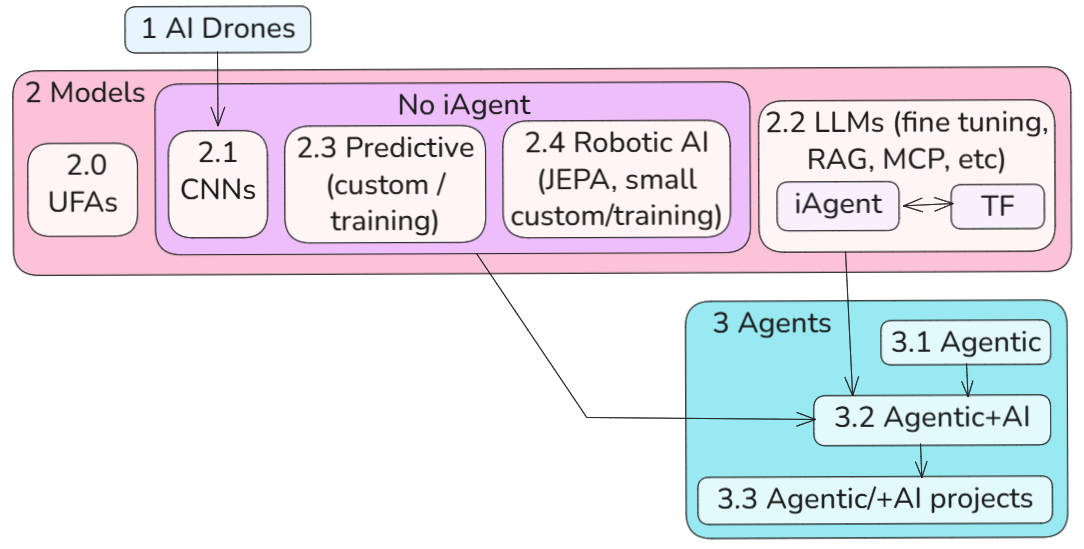
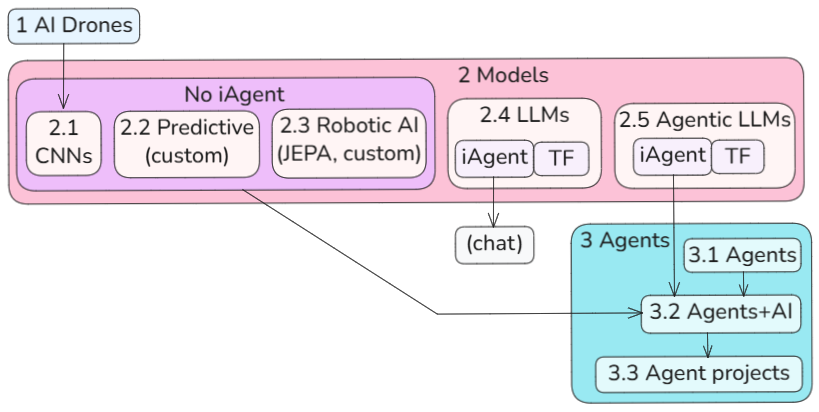
major refacctor3

diff --git a/_includes/header.html b/_includes/header.html
@@ -21,7 +21,7 @@
             {%- assign my_page = site.pages | where: "path", path | first -%}
             {%- if my_page.title -%}
             <a class="page-link" href="{{ my_page.url | relative_url }}">
-              {%- if my_page.path == "1-ai-drones.markdown" or my_page.path == "2-llms.markdown" or my_page.path == "2b-UFA.markdown" or my_page.path == "4-agentic-ai.markdown" or my_page.path == "5-ai-dev-tools.markdown" or my_page.path == "6-ai-projects.markdown" or my_page.path == "91-cnn.markdown" or my_page.path == "2_models.markdown" or my_page.path == "3_agents.markdown" or my_page.path == "0b-resources.markdown" -%}
+              {%- if my_page.path == "1-ai-drones.markdown" or my_page.path == "2.4-LLMs.markdown" or my_page.path == "2.4.2-ufas.markdown" or my_page.path == "4-agentic-ai.markdown" or my_page.path == "5-ai-dev-tools.markdown" or my_page.path == "6-ai-projects.markdown" or my_page.path == "2.1-cnns.markdown" or my_page.path == "2_models.markdown" or my_page.path == "3_agents.markdown" or my_page.path == "4_resources.markdown" -%}
                 <strong>{{ my_page.title | escape }}</strong>
               {%- else -%}
                 {{ my_page.title | escape }}

diff --git a/_includes/head.html b/_includes/head.html
@@ -4,6 +4,7 @@
   <meta name="viewport" content="width=device-width, initial-scale=1">
   {%- seo -%}
   <link rel="stylesheet" href="{{ "/assets/main.css" | relative_url }}">
+  <link rel="icon" href="data:,">
   {%- feed_meta -%}
   
   {%- if jekyll.environment == 'production' and site.google_analytics -%}

diff --git a/index.md b/index.md
@@ -5,22 +5,22 @@ title: Home
 
 <br>
 
-**This site covers AI models and agents** (with extensive demos and my own take on core concepts). 
+**This site covers primarily drones, models (LLMs), and agents** (with extensive demos and my own take on core concepts). 
 
 <br>
 
-*Site diagram [(details on timeline page)](/history/)* <br>
-<img src="/assets/zai_evolution3.png" alt="smol" width="60%"> 
+*Site diagram [(details on timeline page)](/0-timeline/)* <br>
+<img src="/assets/zai_evolution3.png" alt="smol" width="55%"> 
 
 <br>
 
-**The following are all of the top-level pages** *(see also the [Wiki](https://github.com/terrytaylorbonn/auxdrone/wiki))*.  
+**The following are the top-level pages** *(see also the [Wiki](https://github.com/terrytaylorbonn/auxdrone/wiki))*.  
 
-- [Timeline](/the-future/). ZiptieAI start, present, and future.
-- **[1 AI Drones](/aidrones/)**. CNNs (object recognition) on Pixhawk drones. 
-- **[2 Models](/2_models/)**. UFAs, CNNs, LLMs, predictive, and robotic AI (*see also **[The gist of LLMs](/2.4.1-llm-gist/)***). 
-- **[3 Agents](/3_agents/)**. Agents, agents+AI, dev tools, and projects.
-- **[4 Resources](/resources/)**. Tech stacks, docs, wiki, Substack, Youtube, Github, and Google Drive. 
+- [Timeline](/the-future/). ZiptieAI site diagram, start, present, and future.
+- **[1 Drones](/1-drones/)**. FPV/Pixhawk drones (with CNN object recognition). 
+- **[2 AI (models)](/2_models/)**. CNNs, predictive/robotic NNs, LLMs, and agentic LLMs (*see also **[The gist of LLMs](/2.4.1-llm-gist/)***). 
+- **[3 Agents](/3_agents/)**. Agents, agents+AI, and projects.
+- **[4 Resources](/4_resources/)**. Tech stacks, dev tools, docs, wiki, Substack, Youtube, Github, and Google Drive. 
 - [About](/about/).
 
 <br>